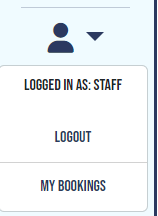
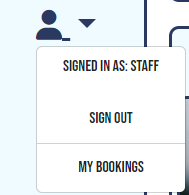
Docs: Manual test
Made some manual tests on the profile pages when
signing up, in and out with success. Made some
visual changes when testing. Changed "Log in"
to "Sign in" for an example.
Also tested all menu links on both small and big
screens.
And changed image in the readme file since it had
"Logged in as:" instead of "Signed in as:"

diff --git a/templates/base.html b/templates/base.html
@@ -55,14 +55,14 @@
               <i class="fa-solid fa-user"></i>
               </a>
               <ul class="dropdown-menu nav-font">
-                <li><a class="dropdown-item {% if user.is_authenticated %} hidden {% endif %}" href="{% url 'account_signup' %}">Signup</a></li>
-                <li><a class="dropdown-item {% if user.is_authenticated %} hidden {% endif %}" href="{% url 'account_login' %}">Login</a></li>
+                <li><a class="dropdown-item {% if user.is_authenticated %} hidden {% endif %}" href="{% url 'account_signup' %}">Sign up</a></li>
+                <li><a class="dropdown-item {% if user.is_authenticated %} hidden {% endif %}" href="{% url 'account_login' %}">Sign in</a></li>
                 {% if user.is_authenticated %}
-                <li>Logged in as: {{ user.username }}</li>
+                <li>Signed in as: {{ user.username }}</li>
                 <li>
                   <hr class="dropdown-divider">
                 </li>
-                <li><a class="dropdown-item" href="{% url 'account_logout' %}">Logout</a></li>
+                <li><a class="dropdown-item" href="{% url 'account_logout' %}">Sign out</a></li>
                 <li>
                   <hr class="dropdown-divider">
                 </li>
@@ -106,14 +106,14 @@
           <i class="fa-solid fa-user"></i>
           </a>
           <ul class="dropdown-menu nav-font">
-            <li><a class="dropdown-item {% if user.is_authenticated %}hidden{% endif %}" href="{% url 'account_signup' %}">Signup</a></li>
-            <li><a class="dropdown-item {% if user.is_authenticated %}hidden{% endif %}" href="{% url 'account_login' %}">Login</a></li>
+            <li><a class="dropdown-item {% if user.is_authenticated %}hidden{% endif %}" href="{% url 'account_signup' %}">Sign up</a></li>
+            <li><a class="dropdown-item {% if user.is_authenticated %}hidden{% endif %}" href="{% url 'account_login' %}">Sign in</a></li>
             {% if user.is_authenticated %}
-            <li>Logged in as: {{ user.username }}</li>
+            <li>Signed in as: {{ user.username }}</li>
             <li>
               <hr class="dropdown-divider dropdown-item">
             </li>
-            <li><a class="dropdown-item" href="{% url 'account_logout' %}">Logout</a></li>
+            <li><a class="dropdown-item" href="{% url 'account_logout' %}">Sign out</a></li>
             <li>
               <hr class="dropdown-divider">
             </li>

diff --git a/staticfiles/css/style.3c56cf2914df.css b/staticfiles/css/style.3c56cf2914df.css
@@ -16,7 +16,7 @@ html, body {
 header {
     height: 200px;
     display: none;
-    background-image: url(../images/header.png);
+    background-image: url("../images/header.d051fc8b9045.png");
     background-size: auto;
     background-repeat: no-repeat;
     border-bottom: 3px solid #2B3960;
@@ -121,7 +121,7 @@ h1, h5, h4, .darkblue{
 
 .big-screens-nav {
     flex: 1;
-    display: block;
+    display: flex;
     flex-direction: row;
 }
 
@@ -347,10 +347,7 @@ h1, h5, h4, .darkblue{
 
 @media screen and (min-width: 480px) {
 
-    .big-screens-nav {
-        display: flex;
-    }
-    header, .big-nav {
+    header, .big-nav, .big-screens-nav {
         display: none;
     }
     .signup-body {
@@ -358,7 +355,7 @@ h1, h5, h4, .darkblue{
     }
 }
 @media screen and (min-width: 768px) {
-    header, .big-nav {
+    header, .big-nav, .big-screens-nav {
         display: block;
     }
     .navbar {

diff --git a/staticfiles/css/style.68d45b2c9747.css b/staticfiles/css/style.68d45b2c9747.css
@@ -16,7 +16,7 @@ html, body {
 header {
     height: 200px;
     display: none;
-    background-image: url(../images/header.png);
+    background-image: url("../images/header.d051fc8b9045.png");
     background-size: auto;
     background-repeat: no-repeat;
     border-bottom: 3px solid #2B3960;
@@ -121,7 +121,7 @@ h1, h5, h4, .darkblue{
 
 .big-screens-nav {
     flex: 1;
-    display: block;
+    display: flex;
     flex-direction: row;
 }
 
@@ -348,7 +348,7 @@ h1, h5, h4, .darkblue{
 @media screen and (min-width: 480px) {
 
     .big-screens-nav {
-        display: flex;
+        display: block;
     }
     header, .big-nav {
         display: none;

diff --git a/templates/account/logout.html b/templates/account/logout.html
@@ -7,14 +7,14 @@
 {% block content %}
 <div class="container no-margin-left signup-body blue-border white-background-2">
     <div class="row">
-        <div class="col-md-8 mt-3 offset-md-2">
+        <div class="col-md-12">
             <h1 class="nav-font">{% trans "Sign Out" %}</h1>
 
             <p class="content-text">{% trans 'Are you sure you want to sign out?' %}</p>
         </div>
     </div>
     <div class="row">
-        <div class="col-md-8 mt-3 offset-md-2">
+        <div class="col-md">
 
             <form method="post" action="{% url 'account_logout' %}">
                 {% csrf_token %}

diff --git a/staticfiles/css/style.css b/staticfiles/css/style.css
@@ -121,7 +121,7 @@ h1, h5, h4, .darkblue{
 
 .big-screens-nav {
     flex: 1;
-    display: flex;
+    display: block;
     flex-direction: row;
 }
 
@@ -347,6 +347,9 @@ h1, h5, h4, .darkblue{
 
 @media screen and (min-width: 480px) {
 
+    .big-screens-nav {
+        display: flex;
+    }
     header, .big-nav {
         display: none;
     }

diff --git a/staticfiles/css/style.20d910642004.css b/staticfiles/css/style.20d910642004.css
@@ -16,7 +16,7 @@ html, body {
 header {
     height: 200px;
     display: none;
-    background-image: url(../images/header.png);
+    background-image: url("../images/header.d051fc8b9045.png");
     background-size: auto;
     background-repeat: no-repeat;
     border-bottom: 3px solid #2B3960;

diff --git a/TESTING.md b/TESTING.md
@@ -5,6 +5,10 @@
 - [Performance](#performance)
 - [Manual testing](#manual-testing)
     * [Home page](#home-page)
+    * [Booking system](#booking-system)
+    * [Commenting an article](#commenting-an-article)
+    * [Sign up / Sign in / Sign out](#sign-up--sign-in--sign-out)
+    * [Links in the menus](#links-in-the-menus)
 - [Resources](#resources)
 
 
@@ -197,14 +201,21 @@ Those are the biggest issues the result came up to.
 
 </details>
 
-### Sign up / Log in / Log out
+### Sign up / Sign in / Sign out
 
 <details>
 <summary>Manual test on the account pages</summary>
 <br>
+
 | Feature | Expected Outcome | Testing Performed | Result | Pass/Fail |
 | --- | --- | --- | --- | --- |
-| Fill in form with invalid | Fill in the form with 
+| Fill in form with invalid when signing up | When signing up for an account with invalid form data there will be a message telling the user what need to be corrected | Tried to create an account with 1 character in the password | Message told me that the password is to short and only numeric | Pass |
+| Signing up with valid data | When signing up for an account successfully, there will be a modal telling the user that they now can comment and book times | Created an account with valid data | Modal congratulated me on creating an account and told me that I can now comment and book times | Pass |
+| Sign in with invalid account data | When signing in with invalid data, there will be a message telling the user what´s wrong. | Trying to log in with invalid data | A message told me that the username or password was not correct | Pass |
+| Sign in with valid data | When signing in with valid data, the user will have a modal showing up telling them that they now can comment and book times | Signed in with valid data and a modal showed me that I now can comment and book times | Pass |
+| Signing out | When clicking on "Sign out" you will be directed to a page asking the user if they are sure to sign out. When sure to sign out the account will log out | Clicked on "Sign out" and then confirming the sign out | First I was directed to a page asking me if I´m sure to Sign out, then I was signed out when confirming | Pass | 
+
+
 </details>
 
 ### Links in the menus
@@ -212,8 +223,17 @@ Those are the biggest issues the result came up to.
 <details>
 <summary>Manual test on the menus for big and small screens</summary>
 <br>
+
 | Feature | Expected Outcome | Testing Performed | Result | Pass/Fail |
 | --- | --- | --- | --- | --- |
+| Directed to Home page | Directed to the Home page when clicking on "Home" or the logo | Clicked on "Home" and logo | Was directed to the Home page when both clicking on "Home" and the logo | Pass |
+| Directed to Rules page | Directed to the rules when clicking on "Book our courts" | Clicked on "Book our courts" | Was directed to the rules page | Pass |
+| Directed to about us page | Directed to about us page when clicking on "About us" | Clicked on "About us" | Was directed to the about us page | Pass |
+| Directed to the contact form | Directed to the contact form when clicking on "contact us" | Clicked on "Contact us" | Was directed to the contact form | Pass |
+| Directed to sign up form | Directed to the sign up form when clicking on "Sign up" | Clicked on "Sign up" | Was directed to the sign up form | Pass |
+| Directed to sign in page | Directed to sign in page when clicking on "Sign in" | Clicked on "Sign in" | Was directed to the sign in page | Pass |
+| Directed to Sign out page | Directed to the sign out page when clicking on "Sign out" | Clicked on "Sign out" | Was directed to sign out page | Pass |
+| Directed to My bookings | Directed to the page with my bookings when clicking on "My bookings" | Clicked on "My bookings" | Was directed to the page listing my bookings | Pass |
 
 </details><br>
 
